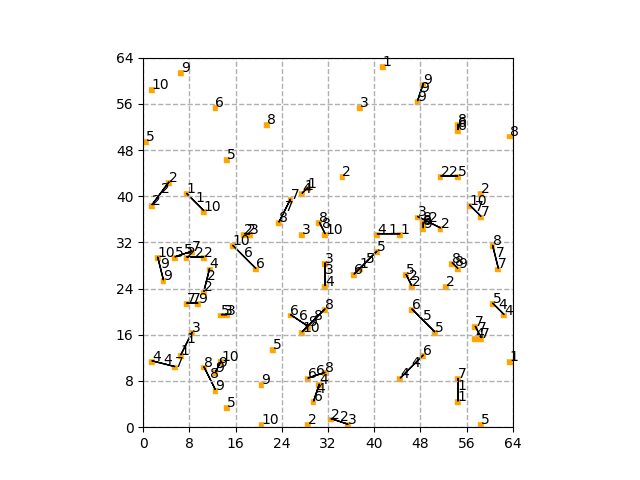
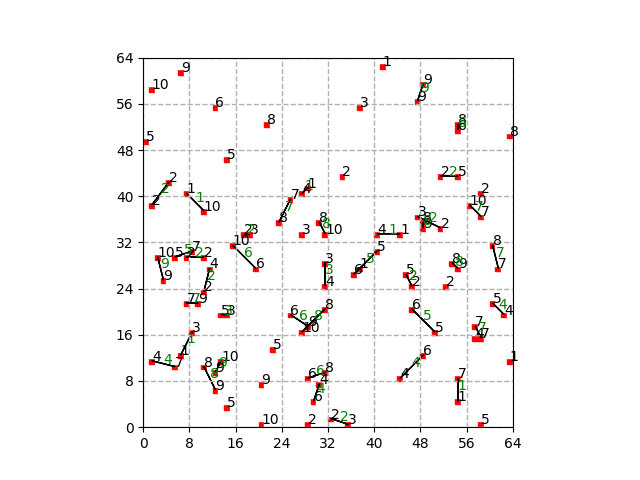
trade matching model

diff --git a/test.py b/test.py
@@ -80,7 +80,7 @@ len_block = 1
 dict_offer = {offer['position']: offer['amount'] for offer in list_offer}
 for y in range(map_size):
     for x in range(map_size):
-        colour = 'orange' if (x, y) in dict_offer.keys() else 'white'
+        colour = 'red' if (x, y) in dict_offer.keys() else 'white'
         rectangle = pch.Rectangle(xy=(x * len_block, y * len_block), width=len_block, height=len_block, color=colour)
         ax.add_patch(rectangle)
 
@@ -93,7 +93,7 @@ for trade in dict_match.keys():
     pos_2 = (list_offer[trade[1]]['position'][0] + len_block / 2, list_offer[trade[1]]['position'][1] + len_block / 2)
     plt.arrow(x=pos_1[0], y=pos_1[1], dx=pos_2[0] - pos_1[0], dy=pos_2[1] - pos_1[1], linestyle='-')
 
-    plt.text(x=(pos_2[0] + pos_1[0]) / 2, y=(pos_2[1] + pos_1[1]) / 2, s=str(dict_match[trade]))
+    plt.text(x=(pos_2[0] + pos_1[0]) / 2, y=(pos_2[1] + pos_1[1]) / 2, s=str(dict_match[trade]), color='green')
 
 # let the length of an x axis unit be equal with y axis
 ax.set_aspect(1)
